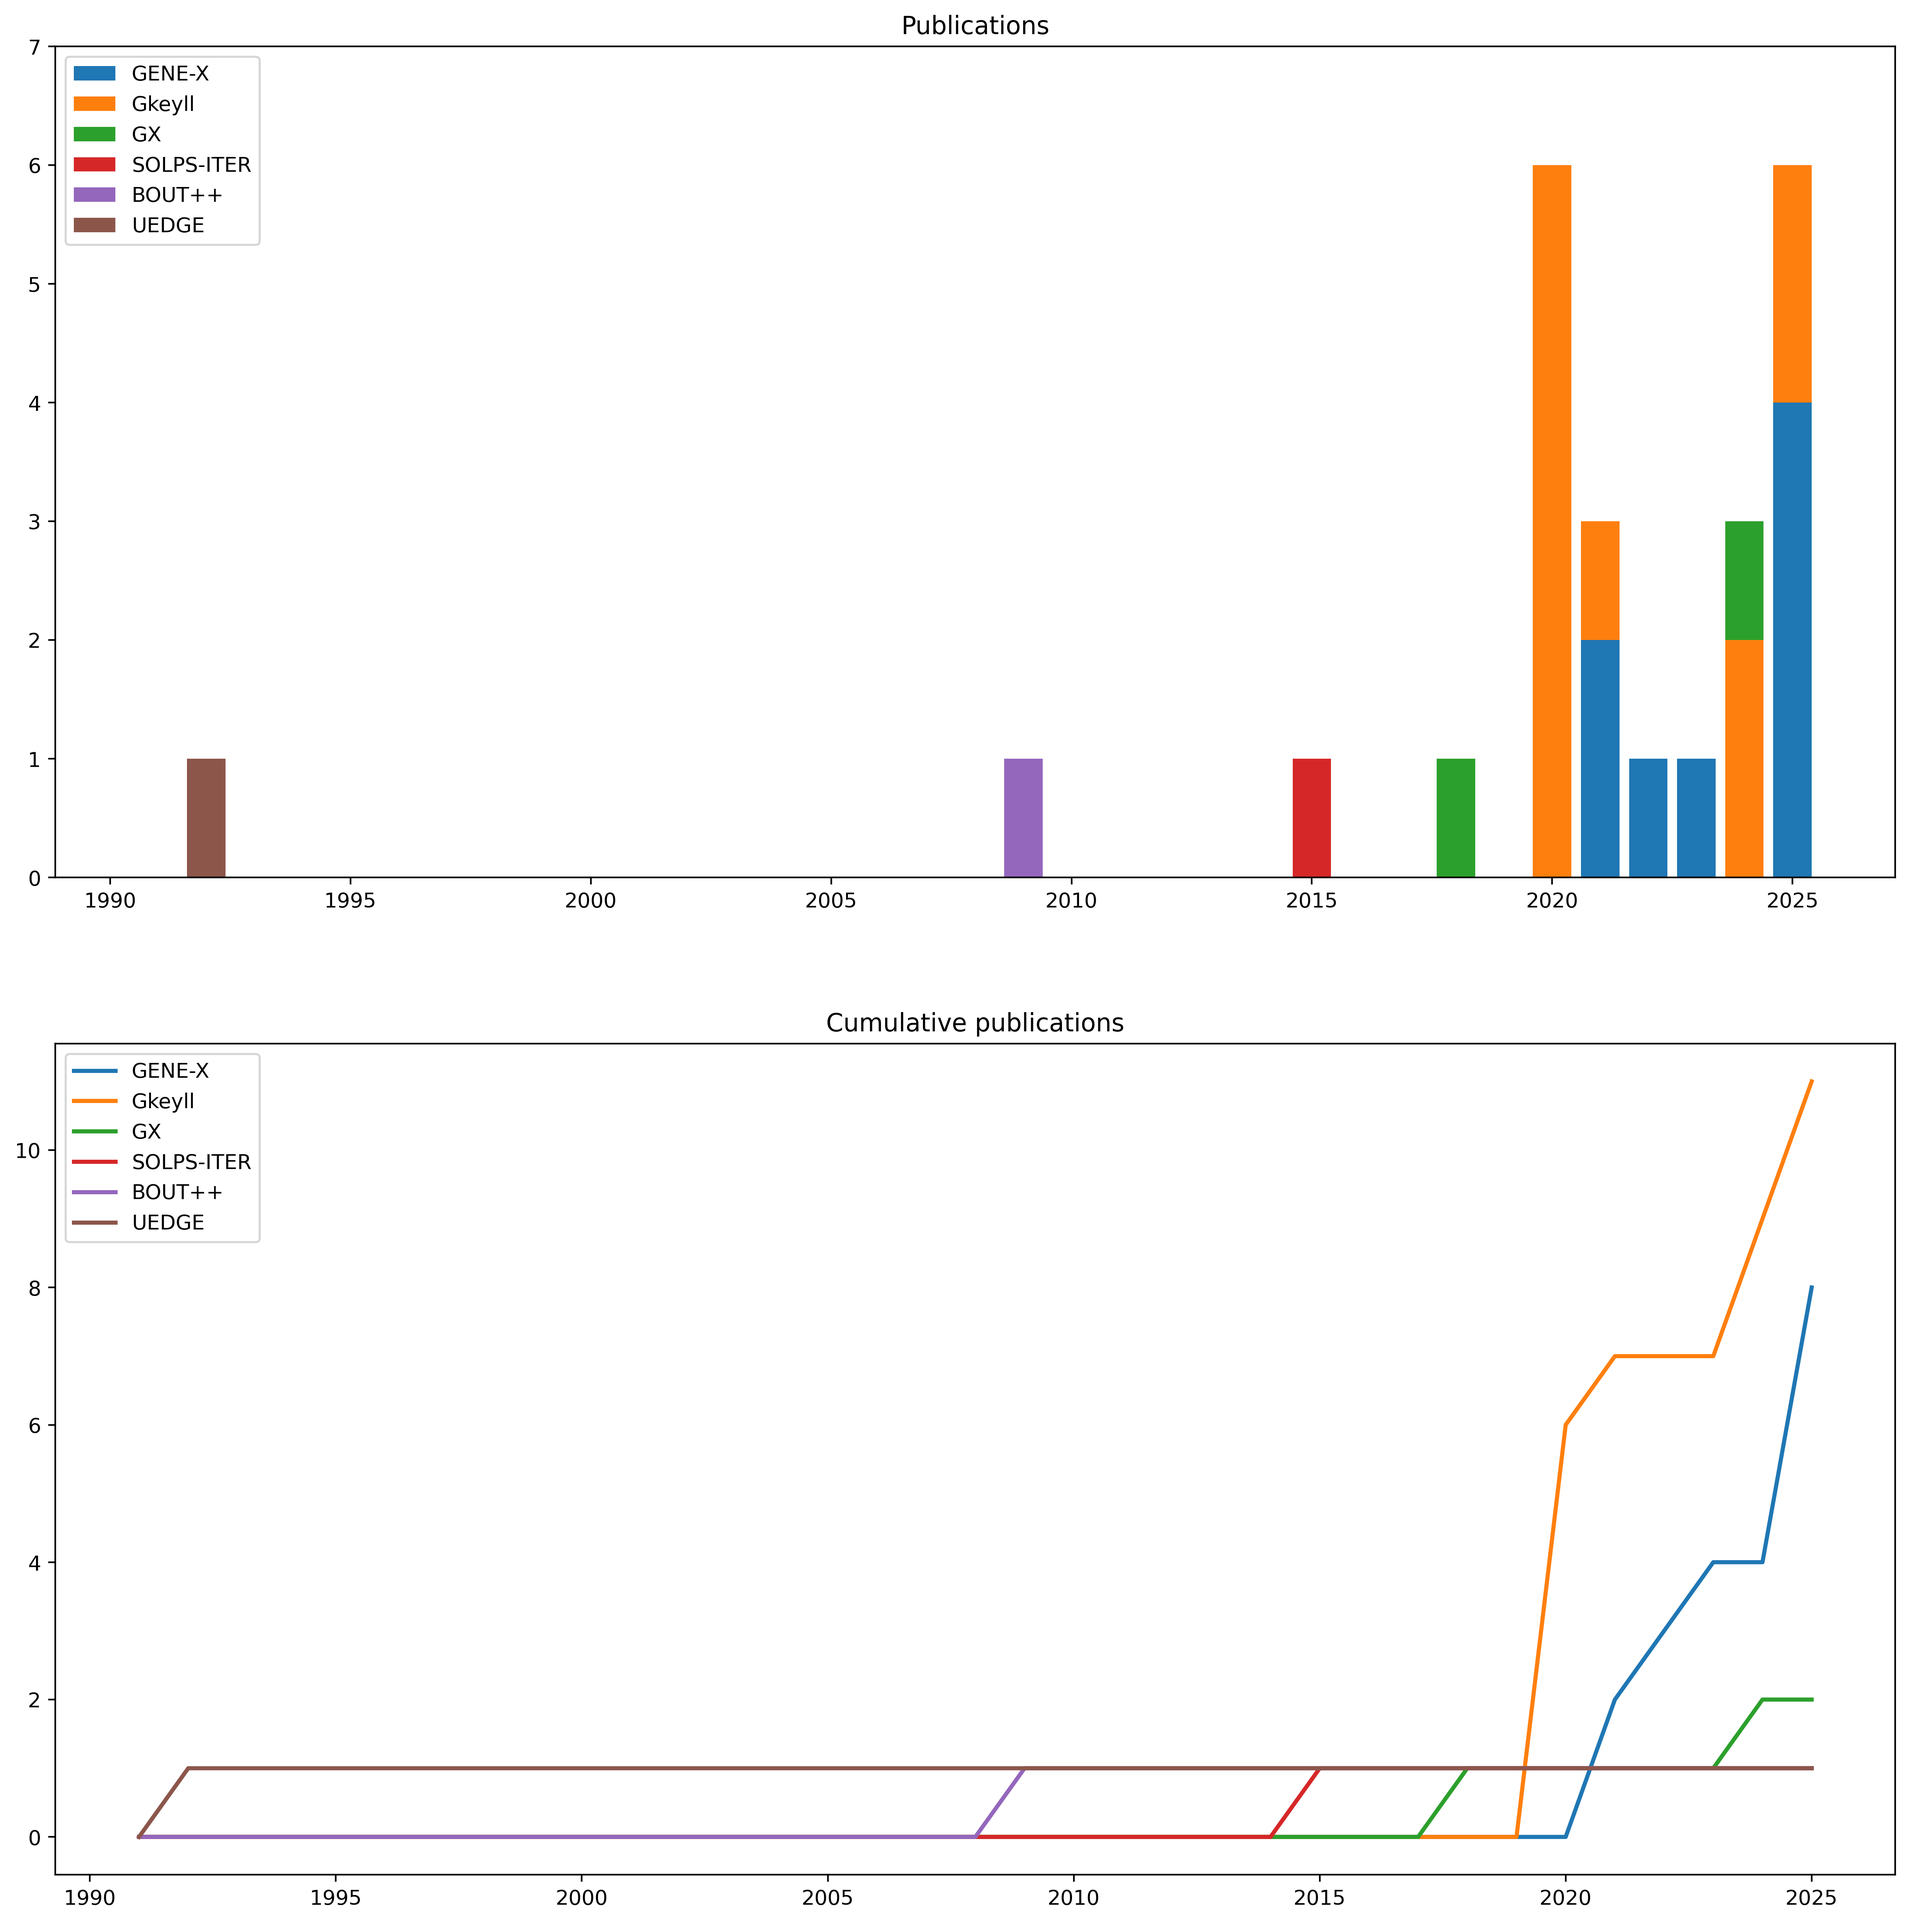
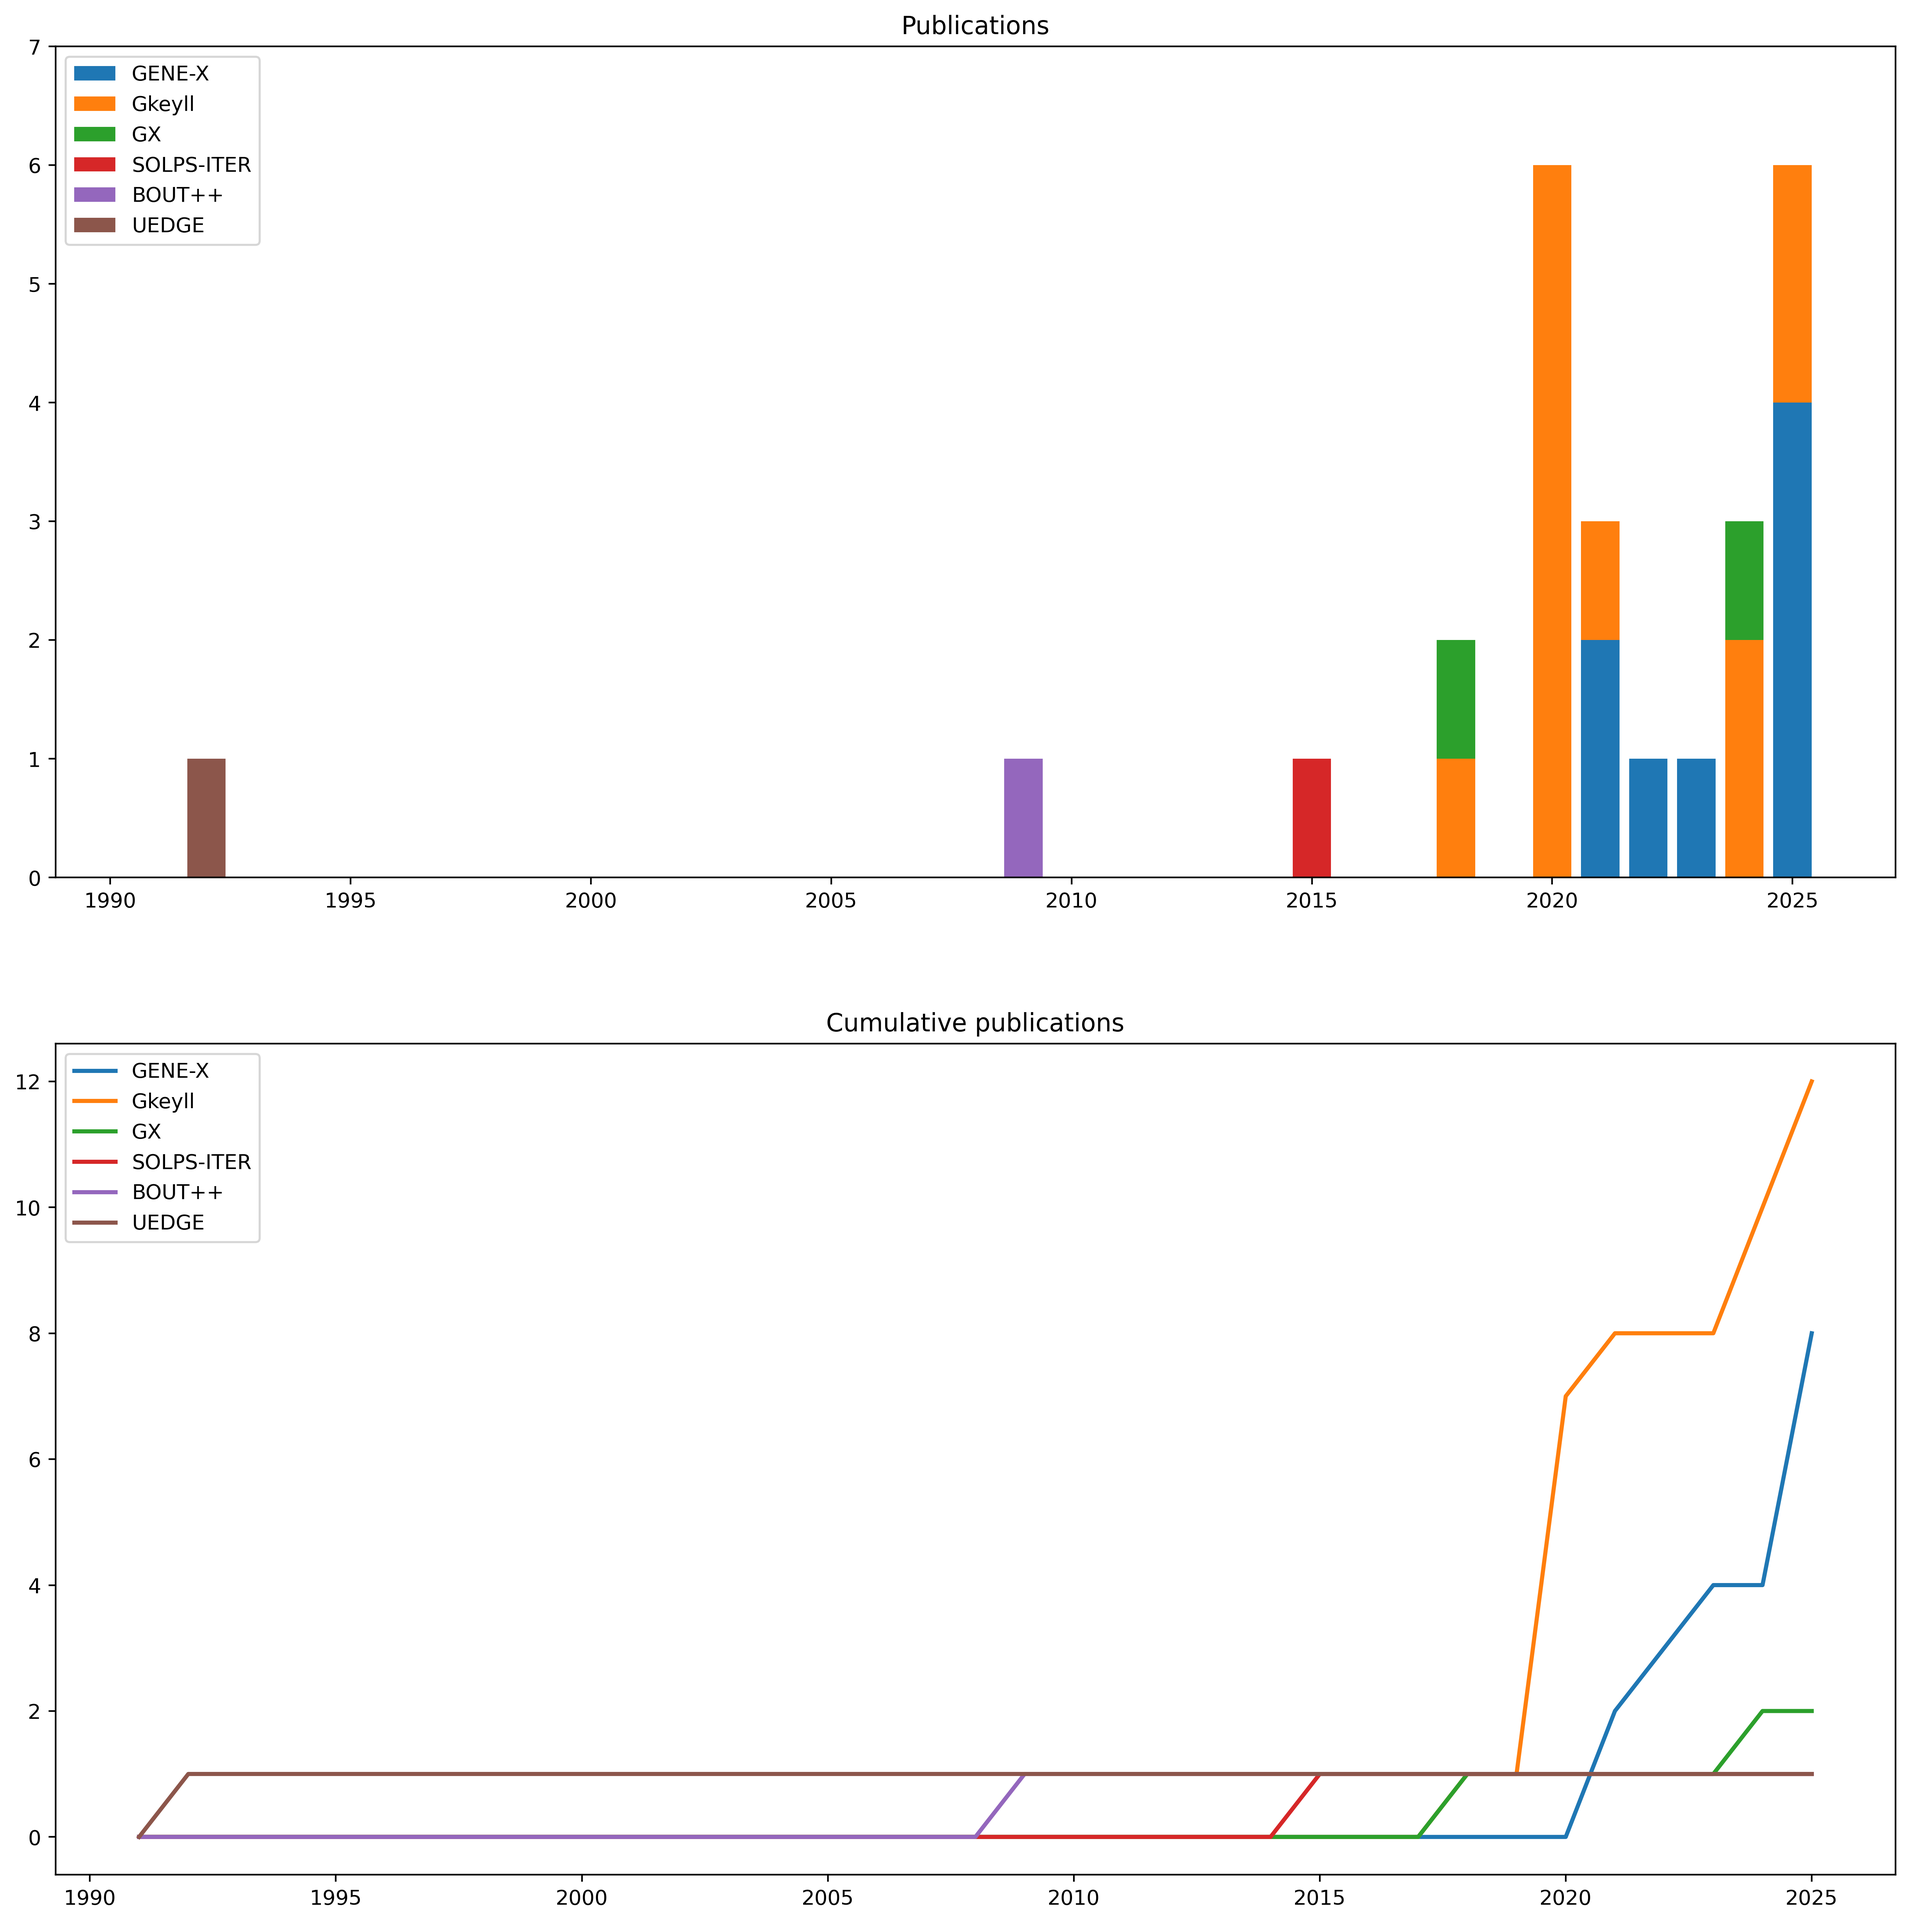
feat: add "10.1016/j.jcp.2017.10.009"

diff --git a/README.md b/README.md
@@ -24,6 +24,7 @@
 - Alias-Free, Matrix-Free, and Quadrature-Free Discontinuous Galerkin Algorithms for (Plasma) Kinetic Equations. Hakim and Juno (2020) [10.1109/SC41405.2020.00077](https://doi.org/10.1109/SC41405.2020.00077)
 - Electromagnetic full-*f* gyrokinetics in the tokamak edge with discontinuous Galerkin methods. Mandell at el. (2020) [10.1017/S0022377820000070](https://doi.org/10.1017/S0022377820000070)
 - Exact and locally implicit source term solvers for multifluid-Maxwell systems. Wang at el. (2020) [10.1016/j.jcp.2020.109510](https://doi.org/10.1016/j.jcp.2020.109510)
+- Discontinuous Galerkin algorithms for fully kinetic plasmas. Juno at el. (2018) [10.1016/j.jcp.2017.10.009](https://doi.org/10.1016/j.jcp.2017.10.009)
 - Laguerre-Hermite pseudo-spectral velocity formulation of gyrokinetics. Mandell at el. (2018) [10.1017/S0022377818000041](https://doi.org/10.1017/S0022377818000041)
 - The new SOLPS-ITER code package. Wiesen at el. (2015) [10.1016/j.jnucmat.2014.10.012](https://doi.org/10.1016/j.jnucmat.2014.10.012)
 - BOUT++: A framework for parallel plasma fluid simulations. Dudson at el. (2009) [10.1016/j.cpc.2009.03.008](https://doi.org/10.1016/j.cpc.2009.03.008)
